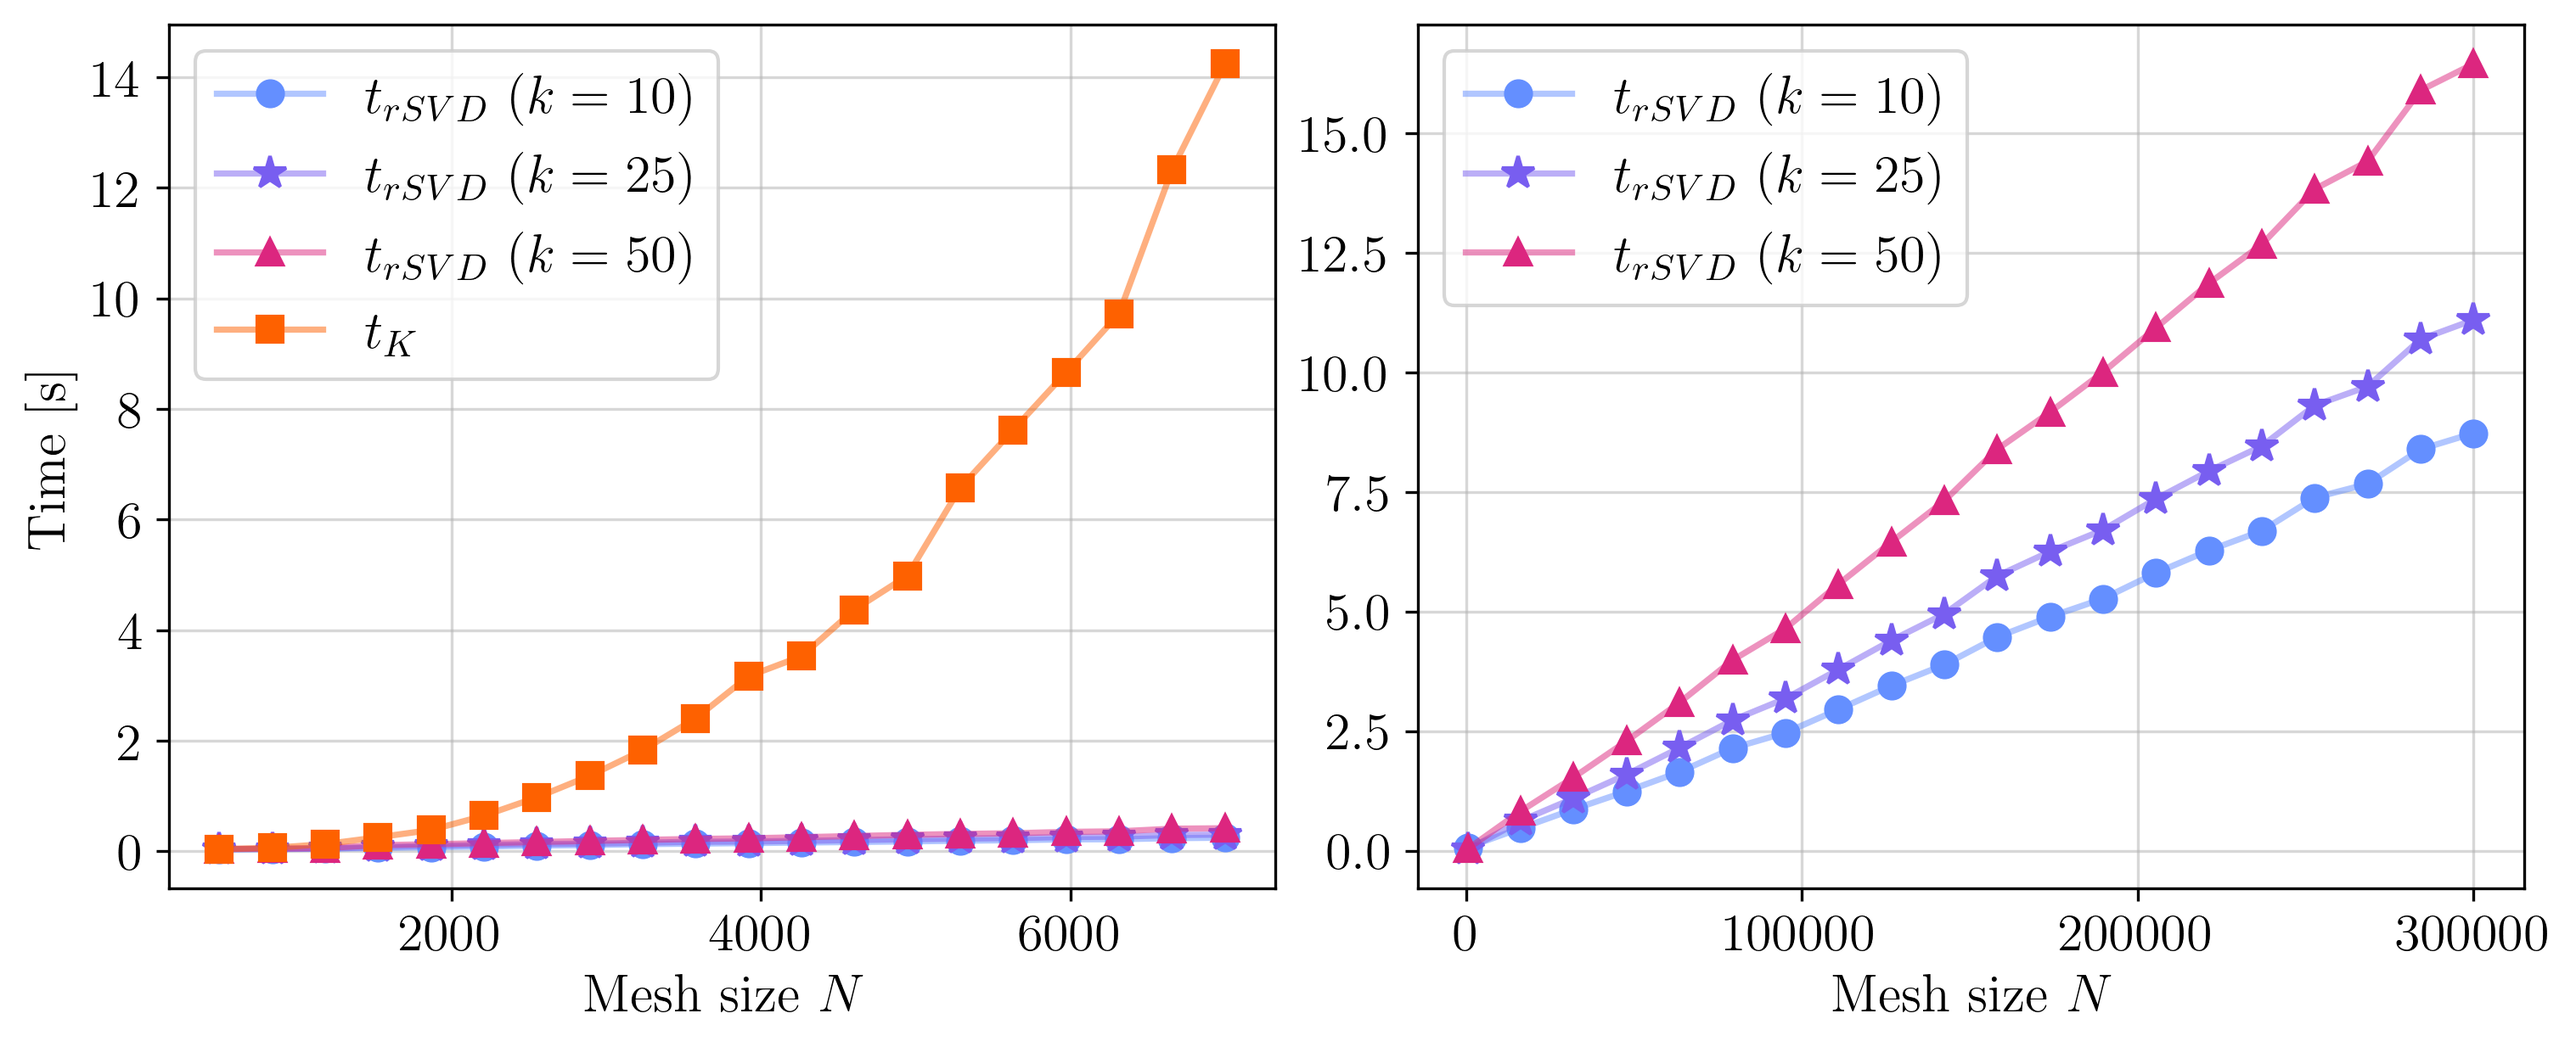
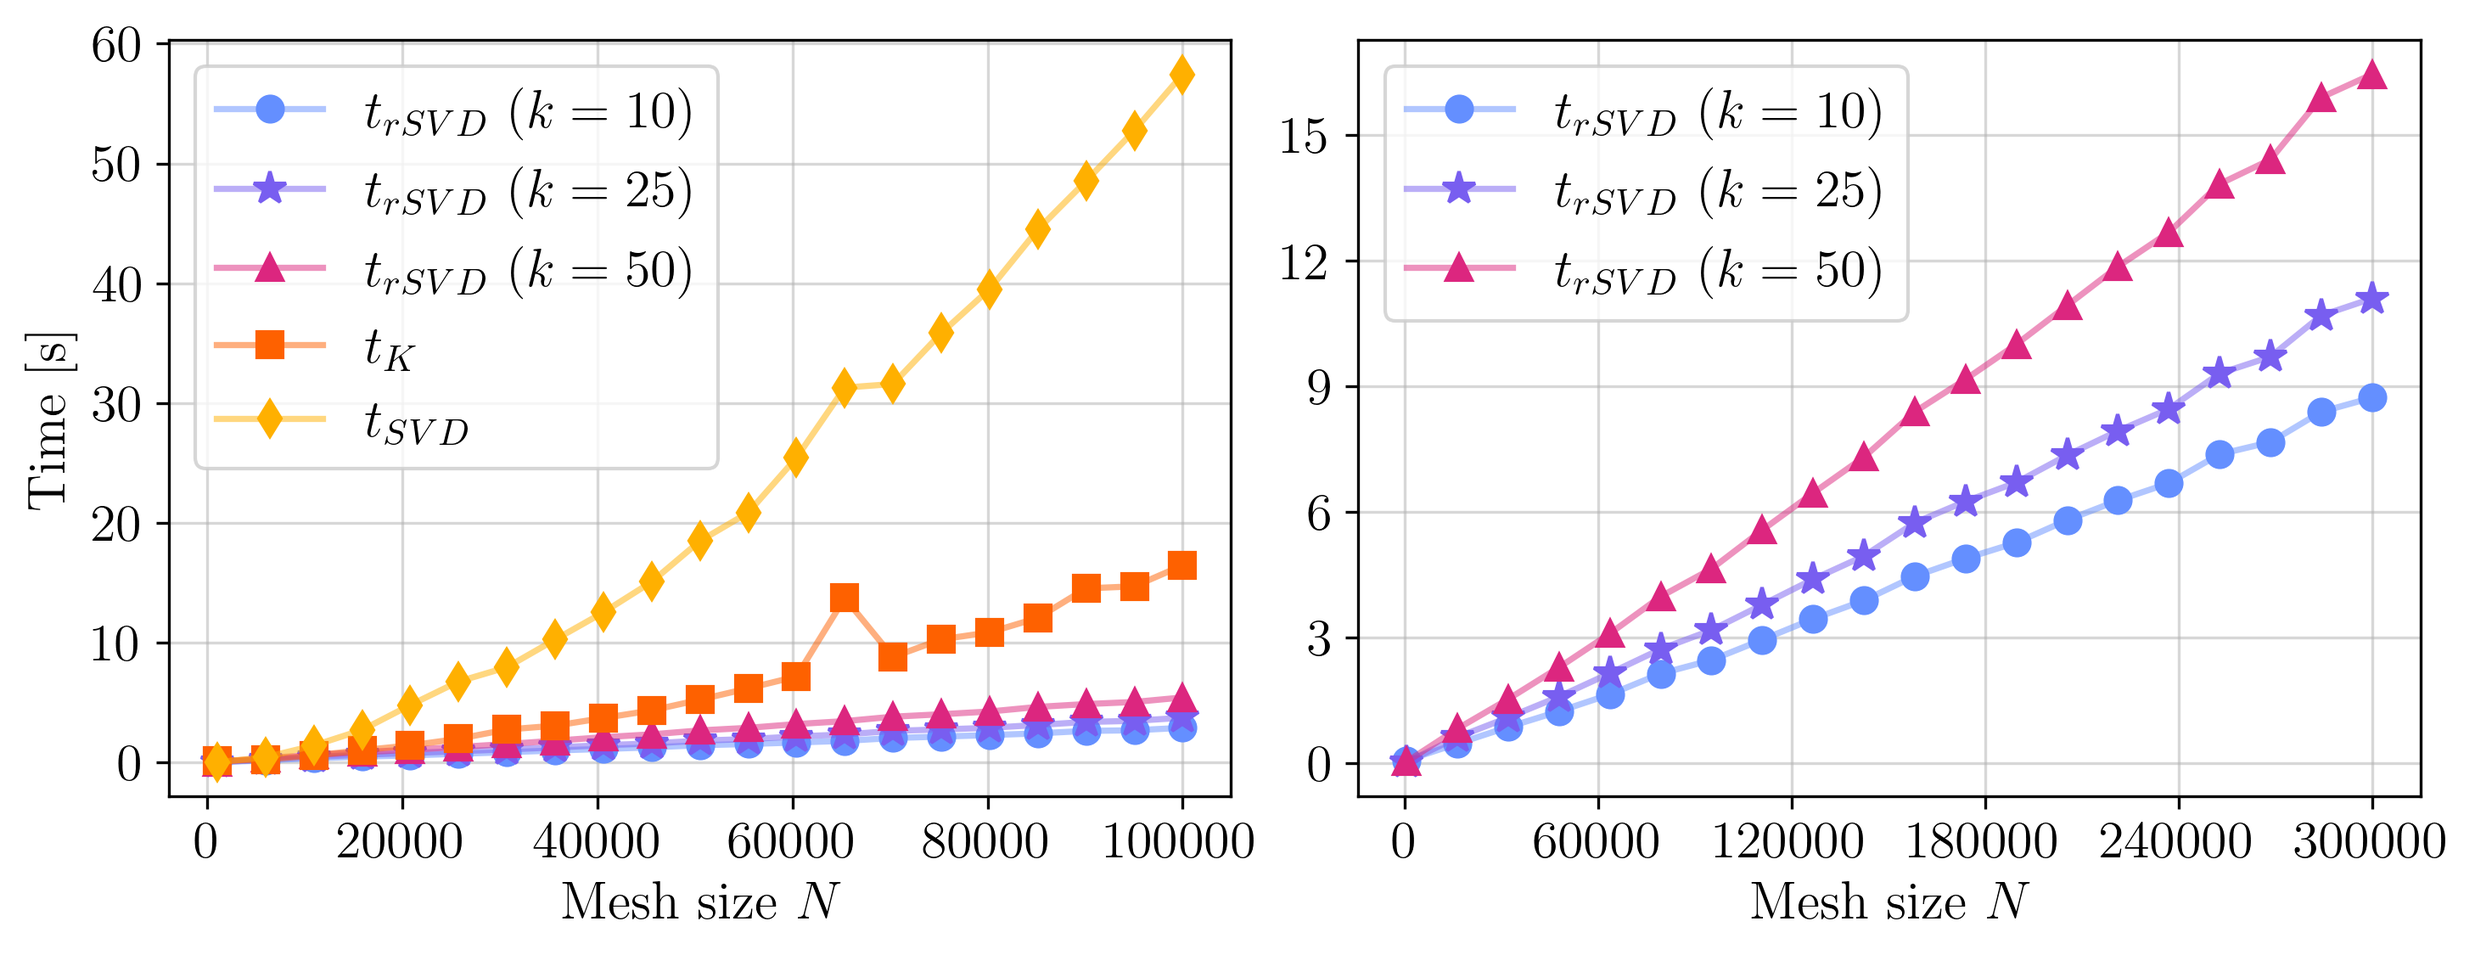
Reworked sections in Results. New sections in Discussions

diff --git a/thesis/sections/5_results.tex b/thesis/sections/5_results.tex
@@ -21,16 +21,11 @@ Python 3.9 was used for all computations, together with NumPy and SciPy for line
 \subsubsection{Computational time}\label{sec:computational_time}
 \input{figures/rsvd_computational_time_comp.tex}
 \input{tables/rsvd_computational_time_comp.tex}
-The left plot of Figure~\ref{fig:rsvd_computational_time_comp} shows the computational time $t_{\text{rSVD}}$ of Algorithm~\ref{alg:discrete_rsvd} for target rank $k=10, 25, 50$, with oversampling parameter $p=5$, compared to the time $t_K$ to form $K = T A^{-1} M$ explicitly (Section~\ref{sec:approximating}) over increasingly fine meshes. 
-The right plot omits $t_K$: at $N = 20{,}000$, the reference time is already $t_K = 261$ seconds (Table~\ref{tab:rsvd_computational_time_comp}), making explicit formation infeasible at larger scales. The median is taken over 30 runs. 
-Table~\ref{tab:rsvd_computational_time_comp} shows the ratio $t_K / t_{\text{rSVD}}$, which is the speedup from using Algorithm~\ref{alg:discrete_rsvd} compared to forming $K$ explicitly (time reported for a single run).
+The left plot of Figure~\ref{fig:rsvd_computational_time_comp} shows the computational time of Algorithm~\ref{alg:discrete_rsvd} for target ranks $k = 10,\, 25$ and $50$, compared to forming $K = T A^{-1} M$ explicitly (Section~\ref{sec:approximating}) and taking its SVD. Table~\ref{tab:rsvd_computational_time_comp} shows the relative speedup comparing different methods, with notation $t^{(k)}_{\text{rSVD}}$ for the time of using Algorithm~\ref{alg:discrete_rsvd} at target rank $k$.
 
-The time $t_K$ surpasses $t_{\text{rSVD}}$ for $N=500$, $842$, and $842$ for $k=10$, $25$, and $50$, respectively, with the time $t_K$ increasing quadratically and $t_{\text{rSVD}}$ increasing linearly with $N$. This is consistent with the theoretical costs of $\mathcal{O}(N^2)$ for forming $K$ and $\mathcal{O}(Nl)$ for Algorithm~\ref{alg:discrete_rsvd}, established in Section~\ref{sec:approximating} \textcolor{red}{[TODO: mention this in Section~\ref{sec:approximating}]}.
-When the mesh has $20{,}000$ nodes, the use of Algorithm~\ref{alg:discrete_rsvd} is between 277 and 479 times as fast, as reported in Table~\ref{tab:rsvd_computational_time_comp}.
+The time $t_K$ surpasses $t_{\text{rSVD}}$ for $N < 1000$ across the selected target ranks, and $t_{\text{SVD}}$ for $N < 5000$. The time $t_{K}$ increases more rapidly than $t_{\text{rSVD}}$ for all target ranks, and $t_{\text{SVD}}$ is observed to increase faster than $t_{K}$, matching their respective theoretical costs of $\mathcal{O}(N_b^2 N)$ and $\mathcal{O}(N_b N \log N$), established in Section~\ref{sec:approximating}.
  
-The computational times $t_{\text{rSVD}}$ for target ranks $10$, $25$ and $50$ scale linearly \textcolor{red}{[TODO: Not really linearly tbh...]}, as seen in the right plot of Figure~\ref{fig:rsvd_computational_time_comp}. The slope of the linear increase depends on the target rank, with a higher target rank resulting in a steeper slope. Increasing $k$ from 10 to 50 results in an increase of $t_{\text{rSVD}}$ with a factor of approximately 1.9, and increasing $k$ from 10 to 25 has a factor of approximately 1.3. This ratio stays constant across all $N>10{,}000$ in our experiments.
-
-For the mesh sizes used in the remaining experiments \textcolor{red}{[TODO: which sections?]}, $N$ is approximately chosen between 1000 and 4000, making Algorithm~\ref{alg:discrete_rsvd} approximately $3$ to $30$ times faster than forming $K$ explicitly.
+The computational times $t_{\text{rSVD}}$ for target ranks $10$, $25$ and $50$ are seen to scale near linearly on this range of $N$ (right plot of Figure~\ref{fig:rsvd_computational_time_comp}). The rate of increase depends on the target rank, with a higher target rank resulting in a more rapid increase. For $N>10{,}000$, increasing $k$ from 10 to 50 results in an increase of $t_{\text{rSVD}}$ by a factor of approximately 1.9, and increasing $k$ from 10 to 25 has a factor of approximately 1.3. 
 
 
 \subsubsection{Computational breakdown}\label{sec:computational_breakdown}

diff --git a/thesis/sections/6_discussion.tex b/thesis/sections/6_discussion.tex
@@ -38,26 +38,29 @@ Equation~\eqref{eq:rsvd_cost} also explains the cost breakdown in Figure~\ref{fi
 
 
 \subsection{Difference in approximation quality using the adjoint operator}
-\textcolor{red}{[TODO: redo this sections; it's wrong.]}
-To understand the difference in the reconstruction quality, it is helpful to investigate the structure of $Y = K\Psi$ and $Y' = K^* \Psi'$, which form the sample matrix in Algorithm~\ref{alg:discrete_rsvd} and \ref{alg:discrete_rsvd_Kstar}, respectively. For the sake of simplicity, assume that $K^* = K$, and let $K = U \Sigma V^T$ be the SVD of $K$. The matrix $\tilde \Psi = V^T \Psi$ is a rotation of the random matrix $\Psi$, meaning that $\tilde \Psi$ also is a random matrix. Indeed, the columns of $Y$ are linear combinations of the left singular vectors $u_1, \dots, u_{N_b}$, since
-\begin{equation*}
-    Y = (U\Sigma)\tilde\Psi.
-\end{equation*}
-In a similar manner, the columns of $Y' = K^* \Psi' = (V \Sigma)\tilde\Psi'$ are linear combinations of the right singular values $v_1, \dots, v_{N_b}$.
+\input{figures/true_singular_values.tex}
+The reconstruction error of using rSVD on $K$ gives a small improvement over using rSVD on $K^*$ (Table~\ref{tab:rsvd_adjoint_error}). To understand this, it is helpful to investigate the structure of $Y = K\Psi$ and $Y' = K^* \Psi'$, which form the sample matrix in Algorithm~\ref{alg:discrete_rsvd} and \ref{alg:discrete_rsvd_Kstar}, respectively.
 
-The quality of the approximate SVD of the rSVD is entirely determined by the sampling $Y$ or $Y'$. Since $K$ is of rank $N_b$, we have that
+Let $K = U \Sigma V^T$ be the SVD of $K$, and partition $\Sigma$ as $\Sigma = \operatorname{diag}(\Sigma_1,\, \Sigma_2)$, where $\Sigma_1$ contains the $k + 1$ first values of $K$, and $\Sigma_2$ the remainder. Correspondingly, partition the right singular values as $V = [V_1\,\, V_2]$, and write $K$ as
 \begin{equation*}
-    \operatorname{Col}(K) =
-    \operatorname{span}\{ u_1, \dots, u_{N_b} \},
-    \quad
-    \operatorname{Col}(K)^\perp = \{ 0 \},
+    K = U \begin{bmatrix}
+    \Sigma_1 & \\ & \Sigma_2
+    \end{bmatrix}
+    \begin{bmatrix}
+    V_1^T \\ V_2^T
+    \end{bmatrix}.
 \end{equation*}
-and
+Right-multiplying by $\Psi$ and setting $\Psi_1 = V_1^T \Omega$ and $\Psi_2 = V_2^T \Omega$ gives
 \begin{equation*}
-    \operatorname{Col}(K^T) =
-    \operatorname{span}\{v_1, \dots, v_{N_b}\},
-    \quad
-    \operatorname{Col}(K^T)^\perp =
-    \operatorname{span}\{v_{N_b+1}, \dots, v_N\}.
+    K = U \begin{bmatrix}
+    \Sigma_1 \Psi_1 \\
+    \Sigma_2 \Psi_2
+    \end{bmatrix}.
 \end{equation*}
-By applying rSVD to $K: \mathbb{R}^N \to \mathbb{R}^{N_b}$,
+Intuitively, $\Sigma_1 \Psi_1$ represents the actions of $K$, while $\Sigma_2 \Psi_2$ is the perturbation. When the singular values of $K$ decays rapidly, the perturbation $\Sigma_2 \Psi_2$ remains low, resulting in a good rank-$k$ approximation.
+
+The quality of the random sampling $Y = K\Psi$ and $Y' = K^* \Psi'$ depends on the spectral decay of $K$ and $K^*$, which is shown in Theorem~10.5 in Halko et al. \cite{halkoFindingStructureRandomness2011}. This is confirmed by inspecting the singular values of $K$ and $K^*$, see Figure~\ref{fig:true_singular_values}. By Equation~\eqref{eq:K_star_def}, we have the relation
+\begin{equation*}
+    K^* = M^{-1} K^T M_\partial.
+\end{equation*}
+So, the mass matrices $M$ and $M_\partial$ changes the spectral decay of $K^T$ to a slower kind, making sampling more difficult.

diff --git a/thesis/tables/rsvd_computational_time_comp.tex b/thesis/tables/rsvd_computational_time_comp.tex
@@ -1,15 +1,22 @@
 \begin{table}[ht]
 \centering
-\caption{The computational speedup $t_K / t_{\text{rSVD}}$ using Algorithm~\ref{alg:discrete_rsvd} for different $k$ compared to forming $K$, with reference time $t_K$.}
+\caption{Computational time ratios: $t^{(k)}_{\text{rSVD}}$ at $k = 25$ and $k = 50$ relative to $k = 10$, and $(t_K + t_{\text{SVD}})$ relative to $t^{(k)}_{\text{rSVD}}$ for $k = 10, 25, 50$. Medians over 30 runs.
+} 
 \label{tab:rsvd_computational_time_comp}
-\begin{tabular}{c c c c c}
+\begin{tabular}{c c c c c c}
 \toprule
-\textbf{$N$} & $k=10$ & $k=25$ & $k=50$ & $t_{K}$ \\
+    \textbf{$N$} &
+    $\tfrac{t^{(25)}_{\text{rSVD}}}{t^{(10)}_{\text{rSVD}}}$ &
+    $\tfrac{t^{(50)}_{\text{rSVD}}}{t^{(10)}_{\text{rSVD}}}$ & 
+    $\tfrac{t_K + t_{\text{SVD}}}  {t^{(10)}_{\text{rSVD}}}$ &
+    $\tfrac{t_K + t_{\text{SVD}}}  {t^{(25)}_{\text{rSVD}}}$ &
+    $\tfrac{t_K + t_{\text{SVD}}}  {t^{(50)}_{\text{rSVD}}}$ \\
 \midrule
-    1000 & 3.7 & 3.7 & 2.6 & 0.1595 \\
-    5000 & 32.8 & 26.6 & 18.6 & 5.381 \\
-    10000 & 117.9 & 92.1 & 67.6 & 36.1 \\
-    20000 & 479.1 & 377.8 & 276.5 & 260.6 \\
+    1,000   & 0.79 & 1.14 & 4.21  & 5.31  & 3.68 \\
+    25,750  & 1.29 & 1.77 & 11.81 & 9.13  & 6.68 \\
+    50,500  & 1.26 & 1.85 & 16.21 & 12.84 & 8.78 \\
+    75,250  & 1.27 & 1.85 & 21.13 & 16.61 & 11.39 \\
+    100,000 & 1.29 & 1.87 & 25.47 & 19.76 & 13.62 \\
 \bottomrule
 \end{tabular}
 \end{table}

diff --git a/thesis/figures/rsvd_computational_time_comp.tex b/thesis/figures/rsvd_computational_time_comp.tex
@@ -1,5 +1,5 @@
 \begin{figure*}[thbp]
     \centerline{\includegraphics[width=1.0\textwidth]{rsvd_computational_time_comp.png}}
-    \caption{Median computational time of using Algorithm~\ref{alg:discrete_rsvd}, $t_{\text{rSVD}}$, compared to explicitly forming $K$, $t_K$, for increasing $N$. Computing $K$ is infeasible for large $N$, so $t_K$ is omitted from the right plot.}
+    \caption{Computational time of using Algorithm~\ref{alg:discrete_rsvd} ($t_{\text{rSVD}}$), explicitly forming $K$ ($t_K$), and computing the SVD of $K$ ($t_{\text{SVD}}$) for increasing $N$. Forming $K$ and computing its SVD are infeasible for large $N$, so $t_K$ and $t_{\text{SVD}}$ are omitted from the right plot. Median values over 30 runs, measured in seconds.}
     \label{fig:rsvd_computational_time_comp}
 \end{figure*}

diff --git a/thesis/figures/true_singular_values.tex b/thesis/figures/true_singular_values.tex
@@ -1,0 +1,7 @@
+\begin{figure*}[thbp]
+    \centerline{\includegraphics[width=0.9\textwidth]{true_singular_values.png}}
+    \caption{Left: Comparison of the normalized singular values $\bar \sigma_i(K)$ and $\bar \sigma_i(K^*)$ of the forward and adjoint operators, respectively (using Problem I).
+    Right: The ratio $\bar \sigma_i(K) / \bar \sigma_i(K^*)$.
+    }
+    \label{fig:true_singular_values}
+\end{figure*}
